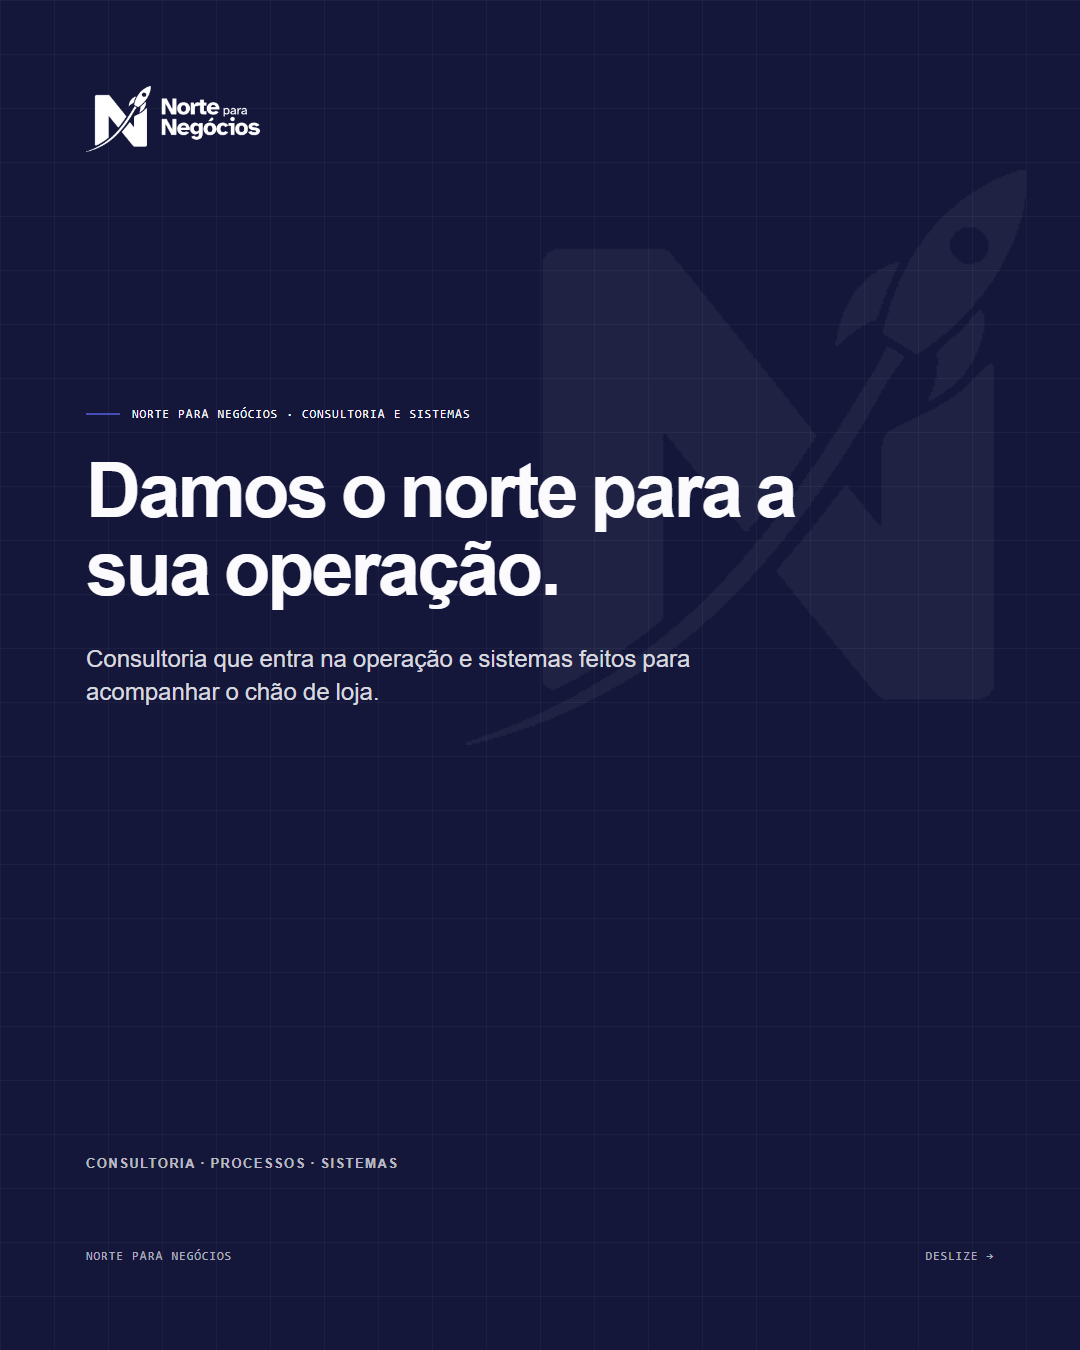
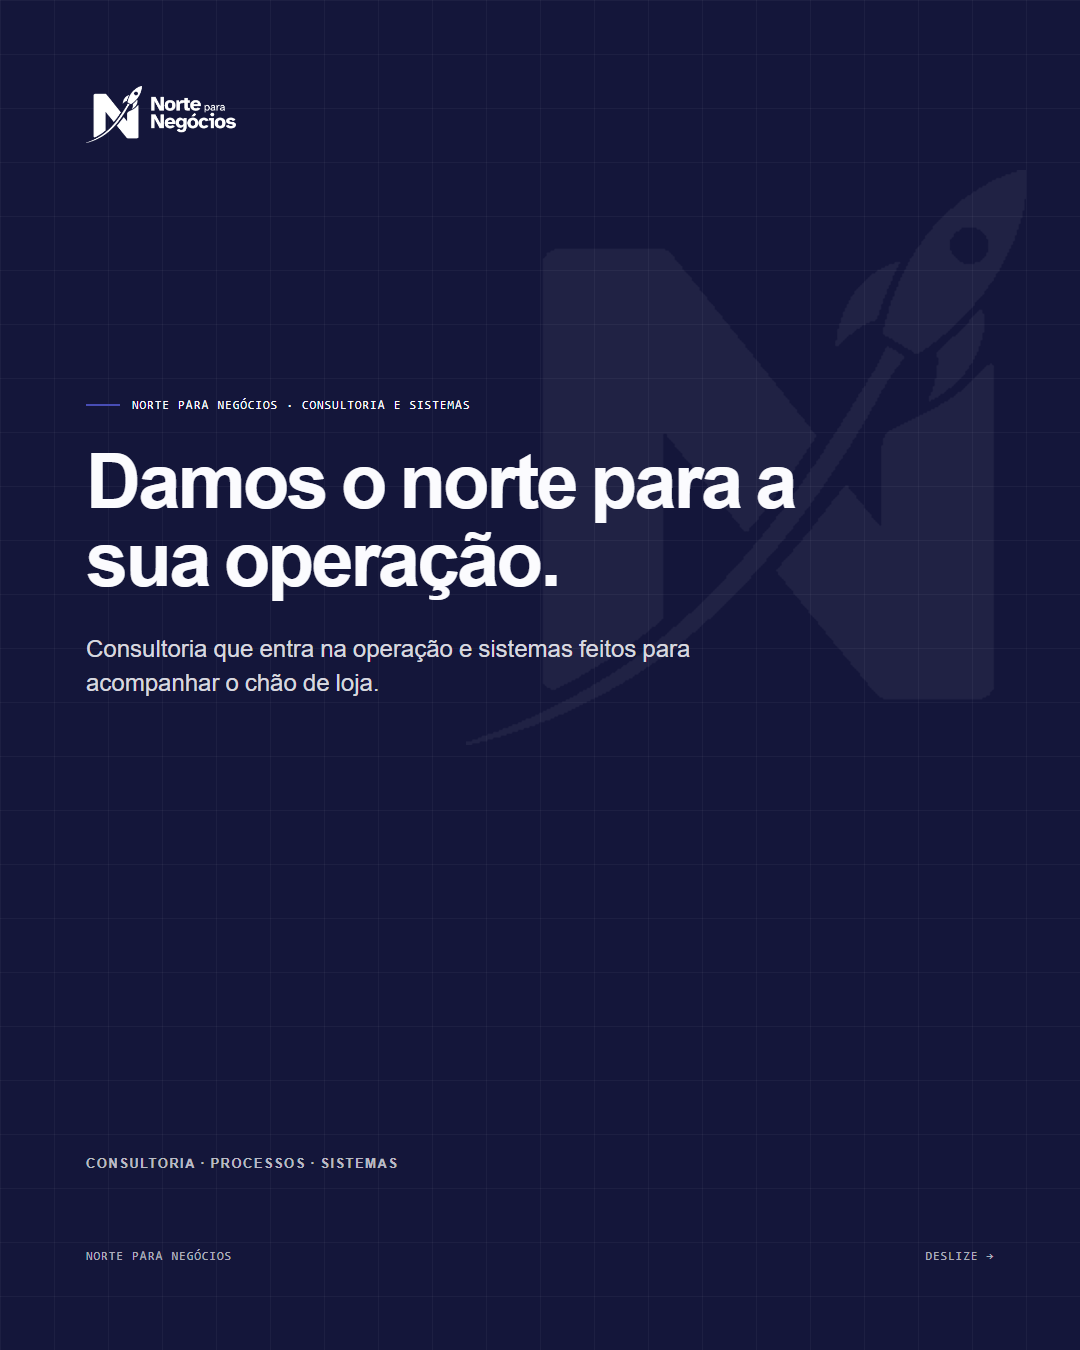
Reduz ainda mais a assinatura da marca

Changed region(s): [[0.0611, 0.3111, 0.7333, 0.5289], [0.1222, 0.28, 0.4278, 0.3111], [0.0917, 0.0622, 0.2444, 0.1244]]

diff --git a/src/templates/NorteNtbApresentacao.tsx b/src/templates/NorteNtbApresentacao.tsx
@@ -21,7 +21,7 @@ function loadFonts(): void {
 const Wordmark: React.FC<{light?: boolean}> = ({light = false}) => (
   <Img
     src={staticFile(light ? 'logos/norte-wordmark-white.png' : 'logos/norte-wordmark-dark.png')}
-    style={{width: 174, height: 'auto', display: 'block', objectFit: 'contain'}}
+    style={{width: 150, height: 'auto', display: 'block', objectFit: 'contain'}}
   />
 );
 
